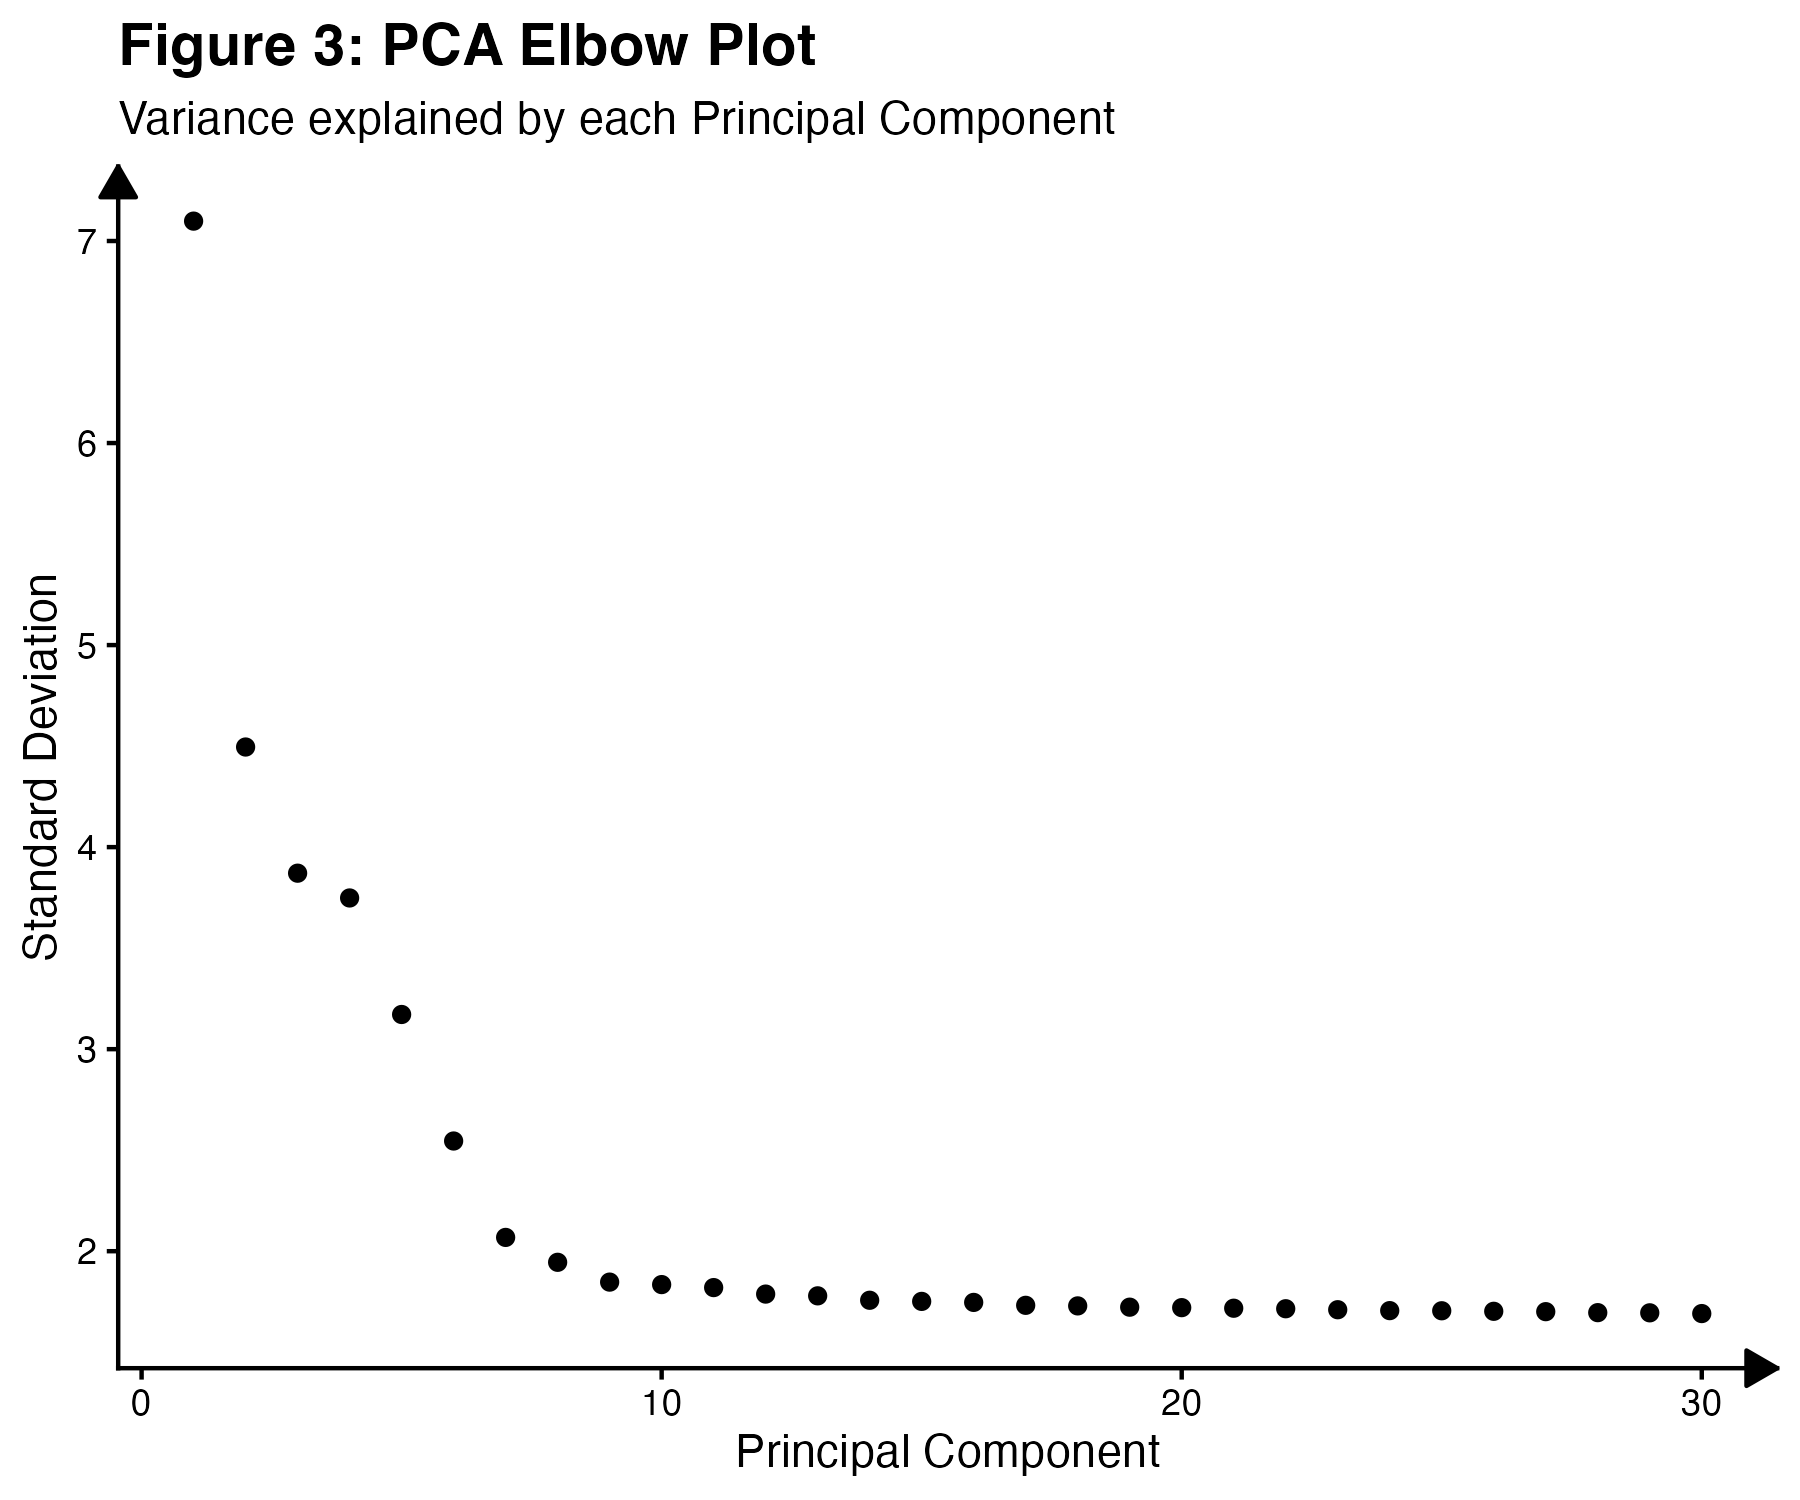
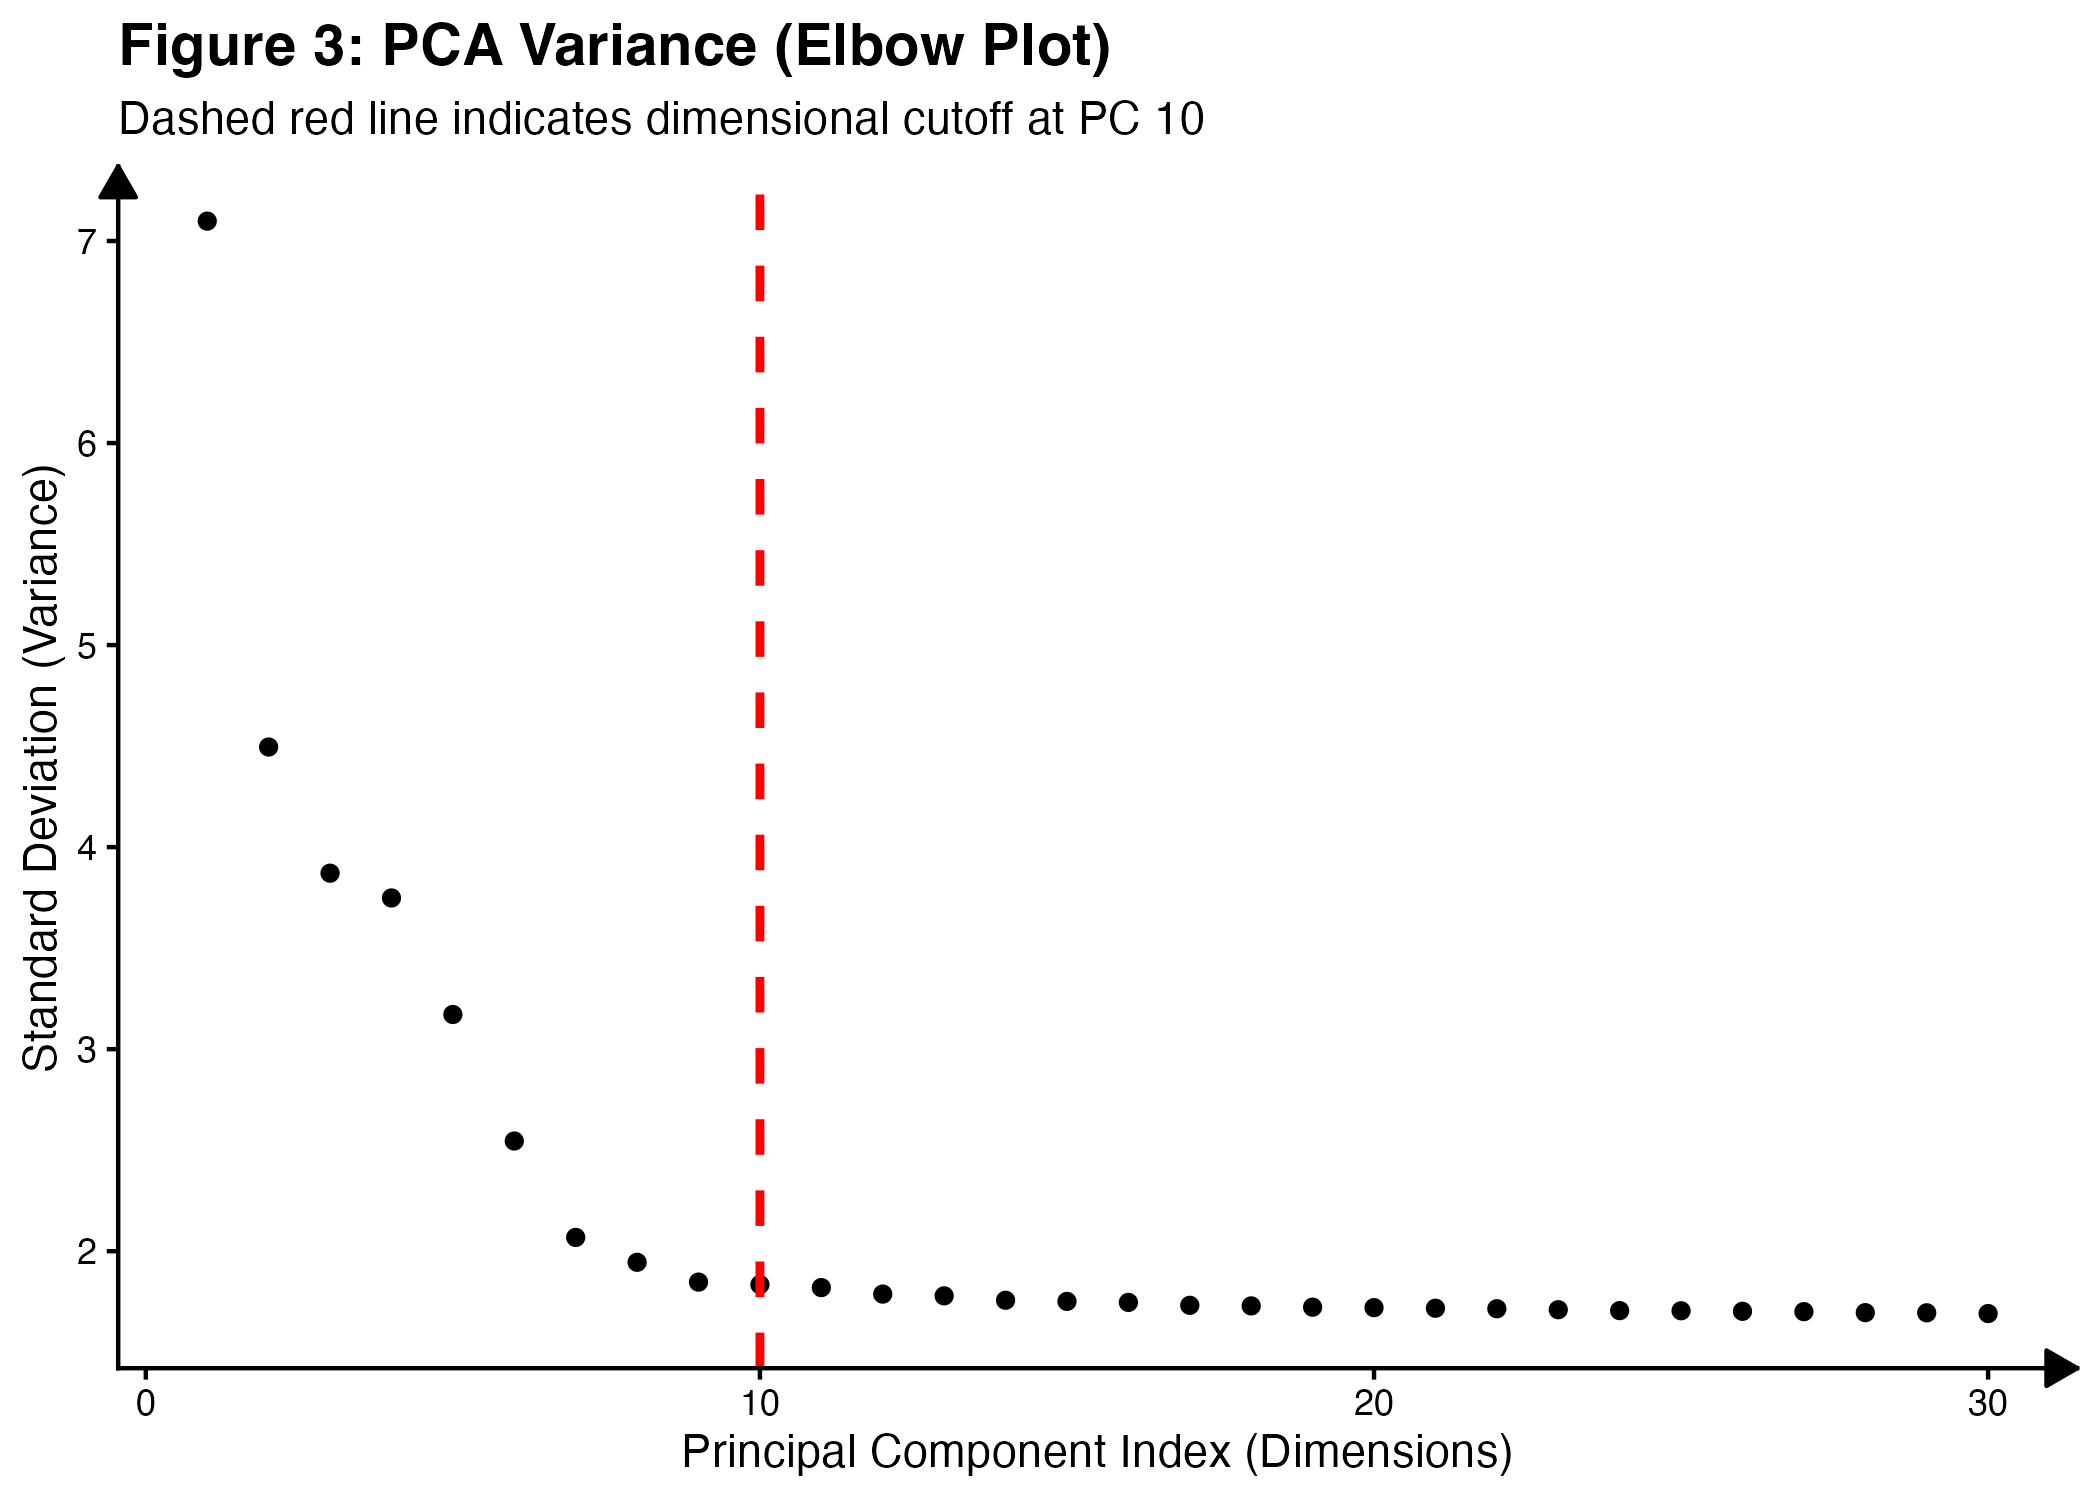
Final visual polish: separate violin plots, embed markdown images, and create final biological conclusions document

diff --git a/results/final_conclusions.md b/results/final_conclusions.md
@@ -1,0 +1,44 @@
+# Final Biological Conclusions
+
+This document serves as the overarching conclusion of the Single-Cell RNA-Seq analysis of human Peripheral Blood Mononuclear Cells (PBMCs). After taking the raw sequencing data through rigorous quality control, normalization, and algorithmic cell type annotation, we have arrived at a final, biologically interpretable map of the immune system.
+
+---
+
+## 1. Quality Control Recap
+The initial dataset contained thousands of droplets. Through strict biological filtering, we removed dead cells (identified by high Mitochondrial RNA) and doublets/empty droplets (identified by extreme RNA counts).
+
+![Figure 1: Quality Control Metrics](../figures/01_qc_violin.png)
+
+*Interpretation: The three graphs above demonstrate the spread of unique genes, total RNA, and mitochondrial percentage. Dropping cells with >5% MT RNA ensured that only viable, living cells progressed to the final analysis.*
+
+---
+
+## 2. Transcriptomic Clustering
+After identifying the 2,000 most highly variable genes and running PCA, we mathematically grouped the cells using K-Nearest Neighbor (KNN) clustering based on their transcriptomic profiles.
+
+![Figure 4: Mathematical Clustering](../figures/02_umap_clusters.png)
+
+*Interpretation: The mathematical clustering grouped the cells into 9 distinct anonymous clusters. This proved that there was strong underlying biological variance separating these groups, even before we knew what their names were.*
+
+---
+
+## 3. Algorithmic Cell Type Annotation
+Using the `SingleR` package and the Human Primary Cell Atlas database, we mapped real biological identities onto our mathematical clusters.
+
+![Figure 5: Biological Cell Type Map](../figures/03_umap_celltype.png)
+
+*Interpretation: This final biological map reveals the core components of the human immune system. We observe massive populations of T_cells (the primary drivers of cellular immunity) and distinct, isolated islands of Monocytes, B_cells, and NK_cells.*
+
+---
+
+## 4. Biomarker Discovery
+To validate these identities, we performed differential expression analysis across the clusters. The full results are available in the [Annotated Marker Genes Table](04_annotated_marker_genes.csv). 
+
+![Figure 6: Biomarker Expression Heatmap](../figures/03_marker_heatmap.png)
+
+*Interpretation: The heatmap confirms the distinct genetic signatures of each cell type. For example, B_cells strongly express CD79A, while Monocytes are characterized by LYZ expression. The strict grouping of these highly expressed genes perfectly aligns with our cell type annotations, confirming the accuracy of the pipeline.*
+
+---
+
+## Final Conclusion
+By computationally isolating and mapping the transcriptomes of thousands of individual cells, we have successfully reconstructed a high-resolution snapshot of the human peripheral immune system. We can distinctly identify the major lymphoid and myeloid lineages, proving the power of single-cell RNA sequencing in characterizing complex biological tissues at single-cell resolution.

diff --git a/computational_pipeline/01_quality_control.md b/computational_pipeline/01_quality_control.md
@@ -48,6 +48,9 @@ VlnPlot(pbmc, features = c("nFeature_RNA", "nCount_RNA", "percent.mt"), ncol = 3
   labs(title = "Figure 1: Quality Control Metrics", subtitle = "Distribution of RNA counts and Mitochondrial percentage", y = "Count / Percentage")
 ```
 
+![Figure 1: Quality Control Metrics](../figures/01_qc_violin.png)
+
+
 **Figure 2: Mitochondrial vs Total RNA**
 This scatter plot confirmed the same thing. The dots in the upper left corner had hardly any real RNA but tons of mitochondrial RNA, meaning they were definitely dead.
 
@@ -59,6 +62,9 @@ FeatureScatter(pbmc, feature1 = "nCount_RNA", feature2 = "percent.mt", pt.size =
         plot.title = element_text(face = "bold", size = 14)) +
   labs(title = "Figure 2: Mitochondrial vs Total RNA", subtitle = "Scatter plot identifying stressed/dying cells (high MT%)", x = "Total RNA Molecules Detected", y = "Mitochondrial Percentage (%)")
 ```
+
+![Figure 2: Mitochondrial vs Total RNA](../figures/01_qc_scatter.png)
+
 
 ---
 

diff --git a/computational_pipeline/02_normalization_and_clustering.md b/computational_pipeline/02_normalization_and_clustering.md
@@ -39,6 +39,9 @@ ElbowPlot(pbmc, ndims = 30) +
   labs(title = "Figure 3: PCA Elbow Plot", subtitle = "Variance explained by each Principal Component", x = "Principal Component", y = "Standard Deviation")
 ```
 
+![Figure 3: PCA Variance (Elbow Plot)](../figures/02_elbow.png)
+
+
 ---
 
 ## Grouping the Cells (Clustering)
@@ -69,6 +72,9 @@ DimPlot(pbmc, reduction = "umap", label = TRUE, label.size = 5, repel = TRUE, pt
         legend.text = element_text(face = "bold")) +
   labs(title = "Figure 4: Mathematical Clustering", subtitle = "UMAP projection of K-Nearest Neighbor louvain clusters", x = "UMAP Dimension 1", y = "UMAP Dimension 2")
 ```
+
+![Figure 4: Mathematical Clustering](../figures/02_umap_clusters.png)
+
 
 ---
 

diff --git a/computational_pipeline/03_cell_type_annotation.md b/computational_pipeline/03_cell_type_annotation.md
@@ -44,6 +44,9 @@ DimPlot(pbmc, group.by = "cell_type", label = FALSE, pt.size = 0.5) +
   labs(title = "Figure 5: Biological Cell Type Map", subtitle = "UMAP projection mapped via SingleR algorithmic annotation", x = "UMAP Dimension 1", y = "UMAP Dimension 2")
 ```
 
+![Figure 5: Biological Cell Type Map](../figures/03_umap_celltype.png)
+
+
 ---
 
 ## Finding the Marker Genes
@@ -73,6 +76,9 @@ DoHeatmap(pbmc_downsampled, features = top5$gene, size = 4, angle = 90) +
         plot.title = element_text(face = "bold", size = 14)) +
   labs(title = "Figure 6: Biomarker Expression Heatmap", subtitle = "Top 5 differentially expressed genes per biological cell type")
 ```
+
+![Figure 6: Biomarker Expression Heatmap](../figures/03_marker_heatmap.png)
+
 
 ---
 